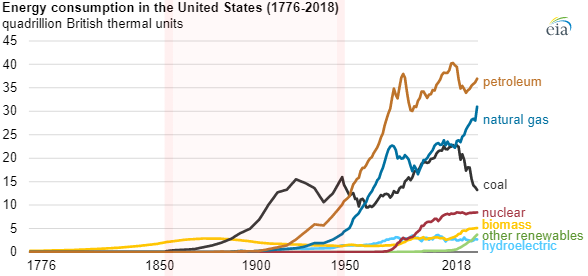
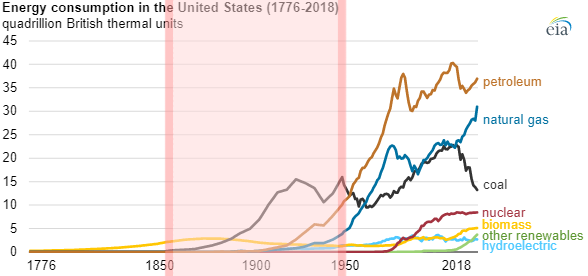
Added coal fueling america

Changed region(s): [[0.2755, 0.0, 0.6122, 1.0], [0.4286, 0.7246, 0.4592, 0.8116]]

diff --git a/coal_fueling.html b/coal_fueling.html
@@ -28,34 +28,70 @@
     <br/>
     <div class="flex justify-center row-span-full">
         <div class="px-6 py-6 inline-block align-top">
-            <img src="https://via.placeholder.com/1150x325">
+            <img src="svg/railroad.jpg">
         </div>
 
         <div class="w-1/3 px-6 py-6 justify-center inline-block text-center">
         
             <p class="border-4 border-sunny font-lorabold text-white text-cbxl cb:text-4xl px-3 py-5 transition ease-in-out hover:scale-105 hover:border-pale-sunny duration-175">
-                "quote about ludlow
-                quote about ludlow
-                quote about ludlow
-                quote about ludlow
-                quote about ludlow
-                quote about ludlow
-                quote about ludlow"
-                
+                "Life comes to the miners out of their deaths, and death out of their lives"
             </p>
             <p class="font-lorabold text-white text-cbxl cb:text-2xl px-3 py-5">
-                <i>- [INSERT PERSON HERE], [TITLE].</i>
+                <i>- "Mother Jones", Protest Rallier & Strike Supporter</i>
             </p>
             <br/>
-
         </div>
-
-
     </div>
 
 
-    <a href="ludlow.html">
-        <button class="border-2 border-sunny bg-coal rounded-sm py-2 px-3 font-lorabold text-white transition ease-in-out hover:scale-105 hover:bg-sunny duration-175">LUDLOW MASSACRE</button>
+    <div class="flex justify-center row-span-full text-center bg-coal">
+        <div class="w-2/3 px-6 py-6 justify-center inline-block text-center">
+        
+            <p class="font-lorabold text-white text-cbxl cb:text-3xl px-3 py-5">
+                Coal between the <b>1850s</b> up until the <b>1950s</b> was absolutely essential, and was the highest consumed energy source America was using. 
+                Coal was one of the major foundations of industrialization throughout the 19th century and its use over petroleum 
+                stayed higher by around <b>10~13 QBTU</b> <i>(Quadrillion British thermal units)</i> through the period <b>highlighted in red</b>. Coal's drop suffered at 
+                around 1940 was due to a massive coal miner strike with <b>500,000 miners</b>  in April 1943 due to unfair conditions 
+                despite President Roosevelt's attempts to make miners adhere to a “ no-strike” period during the Second World War.
+            </p>
+            <br/>
+        </div>
+
+        <div class="px-6 py-6 inline-block align-top transition ease-in-out hover:scale-125 duration-200 mt-4">
+            <img src="svg/energy_consumption_graph.png" class="w-full h-3/4">
+            <p class="font-lorabold text-white text-cbxl cb:text-sm px-3 py-5">
+                <i>Graph showing energy consumption per QBTU from 1776-2019</i>
+            </p>
+        </div>
+    </div>
+    <hr style="height:4px;border-width:0;color:gray;background-color:#FFAB7C">
+    <div class="flex justify-center row-span-full text-center bg-coal">
+        <div class="px-6 py-6 inline-block align-top transition ease-in-out hover:scale-125 duration-200 mt-4">
+            <img src="svg/trinidad_streets.jpg" class="w-full h-3/4">
+            <p class="font-lorabold text-white text-cbxl cb:text-sm px-3 py-5">
+                <i>Streets of Trinidad, Colorado taken in 1910</i>
+            </p>
+        </div>
+
+        <div class="w-2/3 px-6 py-3 pb-0 justify-center inline-block text-center bg-coal">
+        
+            <p class="font-lorabold text-white text-cbxl cb:text-3xl px-3 py-5">
+                With a rising necessity for coal in the US, that comes with the rising need for mines, 
+                and of course, workers. Colorado Fuel & Iron company (or CF&I), owned by 
+                <b>John D. Rockefeller Junior</b>, set up their establishments in Denver and Pueblo in 1892. 
+                Their practices, however, were questionable under the Colorado law at the time.
+                 They purposely hired as many foreign workers as they were able to, as in the companies eyes, 
+                 if they couldn't speak the same language, it would be harder for them to 
+                 find a common goal and unite together.Colorado coal mining in Colorado however was a lot more dangerous as 
+                 Colorado also had twice the national average of coal mine fatalities, and frequently experienced mine 
+                 explosions and cave ins with <i>little to no</i> response from the company responsible for the mine. 
+            </p>
+            <br/>
+        </div>
+    </div>
+
+    <a href="company_life.html">
+        <button class="border-2 border-sunny bg-coal rounded-sm py-2 px-3 font-lorabold text-white transition ease-in-out hover:scale-105 hover:bg-sunny duration-175">COMPANY LIFE</button>
     </a>
 
     <footer class="bg-coal">

diff --git a/dist/output.css b/dist/output.css
@@ -476,9 +476,29 @@ Ensure the default browser behavior of the `hidden` attribute.
   grid-row: 1 / -1;
 }
 
+.float-right {
+  float: right;
+}
+
+.float-left {
+  float: left;
+}
+
 .mx-auto {
   margin-left: auto;
   margin-right: auto;
+}
+
+.mt-12 {
+  margin-top: 3rem;
+}
+
+.mt-6 {
+  margin-top: 1.5rem;
+}
+
+.mt-4 {
+  margin-top: 1rem;
 }
 
 .inline-block {
@@ -489,6 +509,50 @@ Ensure the default browser behavior of the `hidden` attribute.
   display: flex;
 }
 
+.h-48 {
+  height: 12rem;
+}
+
+.h-1 {
+  height: 0.25rem;
+}
+
+.h-1\/3 {
+  height: 33.333333%;
+}
+
+.h-2\/3 {
+  height: 66.666667%;
+}
+
+.h-screen {
+  height: 100vh;
+}
+
+.h-1\/2 {
+  height: 50%;
+}
+
+.h-96 {
+  height: 24rem;
+}
+
+.h-80 {
+  height: 20rem;
+}
+
+.h-3\/5 {
+  height: 60%;
+}
+
+.h-4\/5 {
+  height: 80%;
+}
+
+.h-3\/4 {
+  height: 75%;
+}
+
 .w-full {
   width: 100%;
 }
@@ -497,8 +561,36 @@ Ensure the default browser behavior of the `hidden` attribute.
   width: 33.333333%;
 }
 
+.w-96 {
+  width: 24rem;
+}
+
+.w-1 {
+  width: 0.25rem;
+}
+
+.w-1\/2 {
+  width: 50%;
+}
+
+.w-2\/3 {
+  width: 66.666667%;
+}
+
+.snap-center {
+  scroll-snap-align: center;
+}
+
 .items-center {
   align-items: center;
+}
+
+.justify-start {
+  justify-content: flex-start;
+}
+
+.justify-end {
+  justify-content: flex-end;
 }
 
 .justify-center {
@@ -546,6 +638,31 @@ Ensure the default browser behavior of the `hidden` attribute.
   background-color: rgb(31 31 31 / var(--tw-bg-opacity));
 }
 
+.bg-white {
+  --tw-bg-opacity: 1;
+  background-color: rgb(255 255 255 / var(--tw-bg-opacity));
+}
+
+.object-contain {
+  -o-object-fit: contain;
+     object-fit: contain;
+}
+
+.object-cover {
+  -o-object-fit: cover;
+     object-fit: cover;
+}
+
+.object-fill {
+  -o-object-fit: fill;
+     object-fit: fill;
+}
+
+.object-scale-down {
+  -o-object-fit: scale-down;
+     object-fit: scale-down;
+}
+
 .px-5 {
   padding-left: 1.25rem;
   padding-right: 1.25rem;
@@ -576,9 +693,33 @@ Ensure the default browser behavior of the `hidden` attribute.
   padding-bottom: 1.25rem;
 }
 
+.py-10 {
+  padding-top: 2.5rem;
+  padding-bottom: 2.5rem;
+}
+
 .py-2 {
   padding-top: 0.5rem;
   padding-bottom: 0.5rem;
+}
+
+.px-10 {
+  padding-left: 2.5rem;
+  padding-right: 2.5rem;
+}
+
+.px-96 {
+  padding-left: 24rem;
+  padding-right: 24rem;
+}
+
+.px-12 {
+  padding-left: 3rem;
+  padding-right: 3rem;
+}
+
+.pb-0 {
+  padding-bottom: 0px;
 }
 
 .text-center {
@@ -587,6 +728,10 @@ Ensure the default browser behavior of the `hidden` attribute.
 
 .align-top {
   vertical-align: top;
+}
+
+.align-middle {
+  vertical-align: middle;
 }
 
 .font-lorabold {
@@ -602,11 +747,6 @@ Ensure the default browser behavior of the `hidden` attribute.
   font-size: 1.1687rem;
 }
 
-.text-pale-sunny {
-  --tw-text-opacity: 1;
-  color: rgb(255 171 124 / var(--tw-text-opacity));
-}
-
 .text-white {
   --tw-text-opacity: 1;
   color: rgb(255 255 255 / var(--tw-text-opacity));
@@ -617,9 +757,14 @@ Ensure the default browser behavior of the `hidden` attribute.
   color: rgb(255 143 23 / var(--tw-text-opacity));
 }
 
-.underline {
-  -webkit-text-decoration-line: underline;
-          text-decoration-line: underline;
+.text-pale-sunny {
+  --tw-text-opacity: 1;
+  color: rgb(255 171 124 / var(--tw-text-opacity));
+}
+
+.text-sunny {
+  --tw-text-opacity: 1;
+  color: rgb(255 117 40 / var(--tw-text-opacity));
 }
 
 .transition {
@@ -630,13 +775,33 @@ Ensure the default browser behavior of the `hidden` attribute.
   transition-duration: 150ms;
 }
 
+.duration-200 {
+  transition-duration: 200ms;
+}
+
 .ease-in-out {
   transition-timing-function: cubic-bezier(0.4, 0, 0.2, 1);
+}
+
+.hover\:h-96:hover {
+  height: 24rem;
 }
 
 .hover\:scale-105:hover {
   --tw-scale-x: 1.05;
   --tw-scale-y: 1.05;
+  transform: translate(var(--tw-translate-x), var(--tw-translate-y)) rotate(var(--tw-rotate)) skewX(var(--tw-skew-x)) skewY(var(--tw-skew-y)) scaleX(var(--tw-scale-x)) scaleY(var(--tw-scale-y));
+}
+
+.hover\:scale-125:hover {
+  --tw-scale-x: 1.25;
+  --tw-scale-y: 1.25;
+  transform: translate(var(--tw-translate-x), var(--tw-translate-y)) rotate(var(--tw-rotate)) skewX(var(--tw-skew-x)) skewY(var(--tw-skew-y)) scaleX(var(--tw-scale-x)) scaleY(var(--tw-scale-y));
+}
+
+.hover\:scale-110:hover {
+  --tw-scale-x: 1.1;
+  --tw-scale-y: 1.1;
   transform: translate(var(--tw-translate-x), var(--tw-translate-y)) rotate(var(--tw-rotate)) skewX(var(--tw-skew-x)) skewY(var(--tw-skew-y)) scaleX(var(--tw-scale-x)) scaleY(var(--tw-scale-y));
 }
 
@@ -669,5 +834,10 @@ Ensure the default browser behavior of the `hidden` attribute.
   .cb\:text-sm {
     font-size: 0.875rem;
     line-height: 1.25rem;
+  }
+
+  .cb\:text-3xl {
+    font-size: 1.875rem;
+    line-height: 2.25rem;
   }
 }

diff --git a/tailwind.config.js b/tailwind.config.js
@@ -1,5 +1,5 @@
 module.exports = {
-  content: ["./src/**/*.{html,js}"],
+  content: ["*.{html,js}"],
   theme: {
     extend: {
       screens: {
